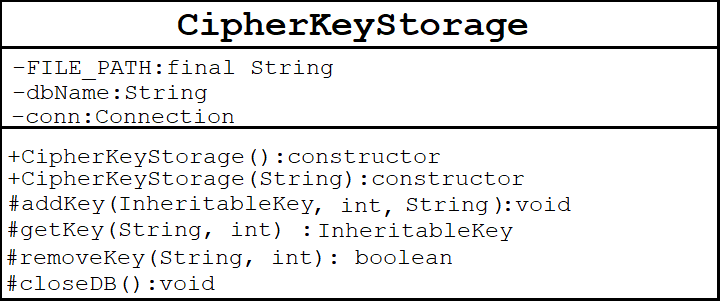
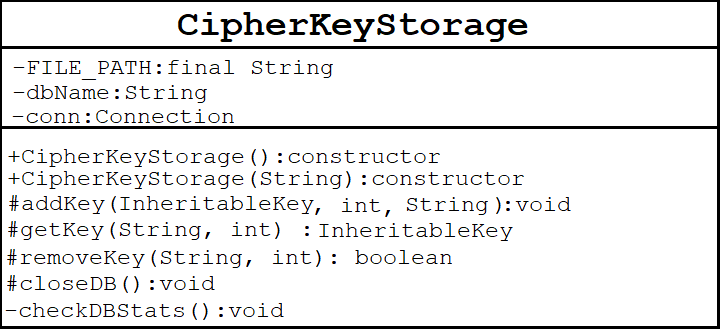
Updated some UML diagrams to reflect some changes.

Changed region(s): [[0.0, 0.0, 1.0, 1.0], [0.3972, 0.8262, 0.4583, 0.8852]]

diff --git a/Encryptor Decryptor File Encryption/src/Encryptor Decryptor File Ecryption/CipherKeyStorage.java b/Encryptor Decryptor File Encryption/src/Encryptor Decryptor File Ecryption/CipherKeyStorage.java
@@ -29,6 +29,7 @@ public class CipherKeyStorage
 		try 
 		{
 			this.conn = DriverManager.getConnection("jdbc:sqlite:" + FILE_PATH);
+			checkDBStats();
 		} 
 		catch (SQLException e) 
 		{
@@ -48,91 +49,8 @@ public class CipherKeyStorage
 		this.dbName = dbName;
 		try
 		{
-			boolean[] tblsExistant = new boolean[7];
 			this.conn = DriverManager.getConnection("jdbc:sqlite:" + dbName);
-			Statement stmt = conn.createStatement();
-			ResultSet rSet = stmt.executeQuery("SHOW TABLES"); //Check to see if any of the tables needed 
-			//by this program are not in the database yet.  
-			while(rSet.next())
-			{
-				String tblName = rSet.getString(1);
-				if(tblName.equalsIgnoreCase("AES-GCM"))
-					tblsExistant[0] = true;
-				else if(tblName.equalsIgnoreCase("AES-CBC"))
-					tblsExistant[1] = true;
-				else if(tblName.equalsIgnoreCase("Affine"))
-					tblsExistant[2] = true;
-				else if(tblName.equalsIgnoreCase("Caeser"))
-					tblsExistant[3] = true;
-				else if(tblName.equalsIgnoreCase("OneTimePad"))
-					tblsExistant[4] = true;
-				else if(tblName.equalsIgnoreCase("RailFence"))
-					tblsExistant[5] = true;
-				else if(tblName.equalsIgnoreCase("Vigenere"))
-					tblsExistant[6] = true;
-				else
-					tblName = tblName; //Do nothing, user defined table.  
-			}
-			//Now create any of the missing tables if needed.  
-			if(!(tblsExistant[0]))
-			{
-				stmt.executeUpdate("CREATE TABLE AES-GCM ("
-								   + "document_name varchar(255) NOT NULL, "
-								   + "key BLOB NOT NULL, "
-								   + "iv BLOB NOT NULL, "
-								   + "auth_tag_len integer NOT NULL, "
-								   + "PRIMARY KEY (document_name))");
-			}
-			if(!(tblsExistant[1]))
-			{
-				stmt.executeUpdate("CREATE TABLE AES-CBC ("
-								   + "document_name varchar(255) NOT NULL, "
-								   + "key BLOB NOT NULL, "
-								   + "iv BLOB NOT NULL, "
-								   + "PRIMARY KEY (document_name))");
-			}
-			if(!(tblsExistant[2]))
-			{
-				stmt.executeUpdate("CREATE TABLE Affine ("
-								   + "document_name varchar(255) NOT NULL, "
-								   + "key integer NOT NULL, "
-								   + "affine_dec_key integer NOT NULL, "
-								   + "arbitrary_x integer NOT NULL, "
-								   + "PRIMARY KEY (document_name))");
-			}
-			if(!(tblsExistant[3]))
-			{
-				stmt.executeUpdate("CREATE TABLE Caeser ("
-								   + "document_name varchar(255) NOT NULL, "
-								   + "key integer NOT NULL, "
-								   + "PRIMARY KEY (document_name))");
-			}
-			if(!(tblsExistant[4]))
-			{
-				stmt.executeUpdate("CREATE TABLE OneTimePad ("
-								   + "document_name varchar(255) NOT NULL, "
-								   + "text_len integer NOT NULL, "
-								   + "key BLOB NOT NULL, "
-								   + "PRIMARY KEY (document_name))");
-			}
-			if(!(tblsExistant[5]))
-			{
-				stmt.executeUpdate("CREATE TABLE RailFence ("
-								   + "document_name varchar(255) NOT NULL, "
-								   + "key integer NOT NULL, "
-								   + "use_punct BLOB NOT NULL, "
-								   + "PRIMARY KEY (document_name))");
-			}
-			if(!(tblsExistant[6]))
-			{
-				stmt.executeUpdate("CREATE TABLE Vigenere ("
-								   + "document_name varchar(255) NOT NULL, "
-								   + "key varchar(255) NOT NULL, "
-								   + "use_punct BLOB NOT NULL, "
-								   + "PRIMARY KEY (document_name))");
-			}
-			rSet.close();
-			stmt.close();
+			checkDBStats();
 		}
 		catch(SQLException e)
 		{
@@ -551,6 +469,117 @@ public class CipherKeyStorage
 			e.printStackTrace();
 			System.out.println("There was an error closing the database.  \n"
 							   + "Program will close in 10 seconds.  ");
+			for(int i = 0; i < 10000; i++)
+			{
+				i = i; //Do nothing.  
+			}
+			System.exit(1);
+		}
+	}
+	
+	private void checkDBStats()
+	{
+		try
+		{
+			boolean[] tblsExistant = new boolean[7];
+			Statement stmt = conn.createStatement();
+			ResultSet rSet = stmt.executeQuery("SHOW TABLES"); //Check to see if any of the tables needed 
+			//by this program are not in the database yet.  
+			while(rSet.next())
+			{
+				String tblName = rSet.getString(1);
+				if(tblName.equalsIgnoreCase("AES-GCM"))
+					tblsExistant[0] = true;
+				else if(tblName.equalsIgnoreCase("AES-CBC"))
+					tblsExistant[1] = true;
+				else if(tblName.equalsIgnoreCase("Affine"))
+					tblsExistant[2] = true;
+				else if(tblName.equalsIgnoreCase("Caeser"))
+					tblsExistant[3] = true;
+				else if(tblName.equalsIgnoreCase("OneTimePad"))
+					tblsExistant[4] = true;
+				else if(tblName.equalsIgnoreCase("RailFence"))
+					tblsExistant[5] = true;
+				else if(tblName.equalsIgnoreCase("Vigenere"))
+					tblsExistant[6] = true;
+				else
+					tblName = tblName; //Do nothing, user defined table if using user defined db.  
+			}
+			//Now create any of the missing tables if needed.  
+			if(!(tblsExistant[0]))
+			{
+				stmt.executeUpdate("CREATE TABLE AES-GCM ("
+								   + "document_name varchar(255) NOT NULL, "
+								   + "key BLOB NOT NULL, "
+								   + "iv BLOB NOT NULL, "
+								   + "auth_tag_len integer NOT NULL, "
+								   + "PRIMARY KEY (document_name))");
+			}
+			if(!(tblsExistant[1]))
+			{
+				stmt.executeUpdate("CREATE TABLE AES-CBC ("
+								   + "document_name varchar(255) NOT NULL, "
+								   + "key BLOB NOT NULL, "
+								   + "iv BLOB NOT NULL, "
+								   + "PRIMARY KEY (document_name))");
+			}
+			if(!(tblsExistant[2]))
+			{
+				stmt.executeUpdate("CREATE TABLE Affine ("
+								   + "document_name varchar(255) NOT NULL, "
+								   + "key integer NOT NULL, "
+								   + "affine_dec_key integer NOT NULL, "
+								   + "arbitrary_x integer NOT NULL, "
+								   + "PRIMARY KEY (document_name))");
+			}
+			if(!(tblsExistant[3]))
+			{
+				stmt.executeUpdate("CREATE TABLE Caeser ("
+								   + "document_name varchar(255) NOT NULL, "
+								   + "key integer NOT NULL, "
+								   + "PRIMARY KEY (document_name))");
+			}
+			if(!(tblsExistant[4]))
+			{
+				stmt.executeUpdate("CREATE TABLE OneTimePad ("
+								   + "document_name varchar(255) NOT NULL, "
+								   + "text_len integer NOT NULL, "
+								   + "key BLOB NOT NULL, "
+								   + "PRIMARY KEY (document_name))");
+			}
+			if(!(tblsExistant[5]))
+			{
+				stmt.executeUpdate("CREATE TABLE RailFence ("
+								   + "document_name varchar(255) NOT NULL, "
+								   + "key integer NOT NULL, "
+								   + "use_punct BLOB NOT NULL, "
+								   + "PRIMARY KEY (document_name))");
+			}
+			if(!(tblsExistant[6]))
+			{
+				stmt.executeUpdate("CREATE TABLE Vigenere ("
+								   + "document_name varchar(255) NOT NULL, "
+								   + "key varchar(255) NOT NULL, "
+								   + "use_punct BLOB NOT NULL, "
+								   + "PRIMARY KEY (document_name))");
+			}
+			rSet.close();
+			stmt.close();
+		}
+		catch(SQLException e)
+		{
+			e.printStackTrace();
+			try 
+			{
+				this.conn.close(); //Release resource.  
+			} 
+			catch (SQLException e1) 
+			{
+				// TODO Auto-generated catch block
+				e1.printStackTrace();
+			}
+			System.out.println("There was an internal error with the program.  \n"
+							  + "The program will exit in 10 seconds.  ");
 			for(int i = 0; i < 10000; i++)
 			{
 				i = i; //Do nothing.  

diff --git a/Encryptor Decryptor File Encryption/src/Encryptor Decryptor File Ecryption/main.java b/Encryptor Decryptor File Encryption/src/Encryptor Decryptor File Ecryption/main.java
@@ -1,18 +1,71 @@
-
-
-
 import CipherKeys.*;
 import CipherPackage.*;
 import java.util.Scanner;
+import java.io.File;
+import java.io.FileNotFoundException;
 
 public class main
 {
 	private static final String VERSION_NUMBER = "0.9";
+	private static CipherKeyStorage dbAccess;
 	
 	public static void main(String[] args)
 	{
-		Scanner userInput = new Scanner(System.in());
+		Scanner userInput = new Scanner(System.in);
 		System.out.println("Encryptor Decryptor File Encryption, Version : " + VERSION_NUMBER);
+		boolean defaultExists = false;
+		while(true)
+		{
+			if(!defaultExists)
+			{
+				try
+				{
+					File dbFile = new File("Keys.db");
+					Scanner fileTest = new Scanner(dbFile);
+					defaultExists = true;
+					fileTest.close();
+				}
+				catch(FileNotFoundException e)
+				{
+					defaultExists = false;
+				}
+			}
+			int input = 0;
+			if(defaultExists)
+			{
+				while((input < 1) || ((input > 2) && (input < 4)) || (input > 4))
+				{
+					System.out.println("Enter 1 to use the deafult database that exists.  Or enter 2 to use your "
+									   + "own database that is compatible with this program (see README.md).  "
+									   + "Enter 5 to exit the program.  :  ");
+					input = userInput.nextInt();
+				}
+			}
+			else
+			{
+				while((input < 3) || (input > 4))
+				{
+					System.out.println("Enter 3 to create a default database to use. Or enter 2 to use your own "
+									   + "database the is compatible with this program (see README.md).  "
+									   + "Enter 4 to exit the program.  :  ");
+					input = userInput.nextInt();
+				}
+			}
+			if(input == 1)
+			{
+				dbAccess = new CipherKeyStorage();
+			}
+			else if(input == 2)
+			{
+				
+			}
+			else if(input == 3)
+			{
+				
+			}
+			else
+				break;
+		}
 	}
 	
 	private static int askAction(int availOptionRefferer)
